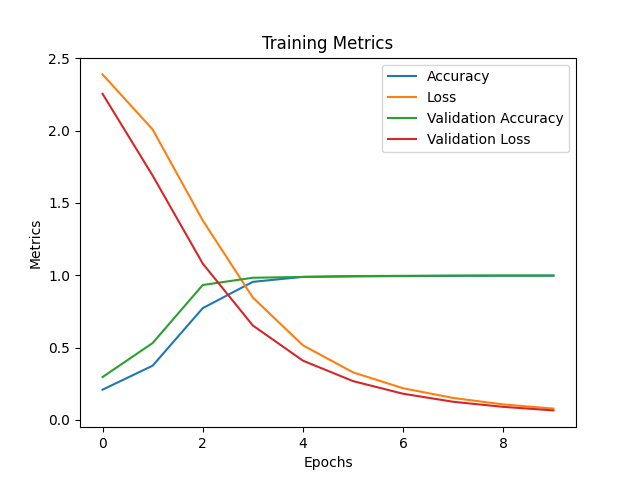
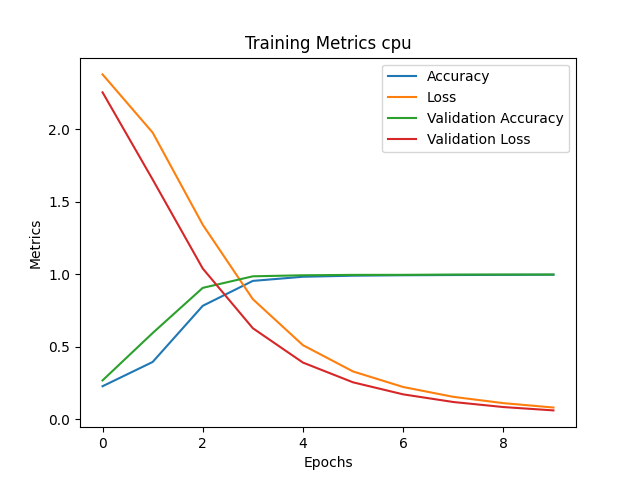
title

diff --git a/plot.py b/plot.py
@@ -10,7 +10,7 @@ def main(file, device):
 
     plt.xlabel('Epochs')
     plt.ylabel('Metrics')
-    plt.title('Training Metrics')
+    plt.title(f'Training Metrics {device}')
     plt.legend()
     plt.savefig(f'plots/metrics_{device}.png')
     plt.clf()
@@ -19,7 +19,7 @@ def main(file, device):
     plt.bar(x=epochs, height=data['time'], label='Time')
     plt.xlabel('Epochs')
     plt.ylabel('Time')
-    plt.title('Time')
+    plt.title(f'Time {device}')
     plt.legend()
     plt.savefig(f'plots/time_{device}.png')
     plt.clf()
